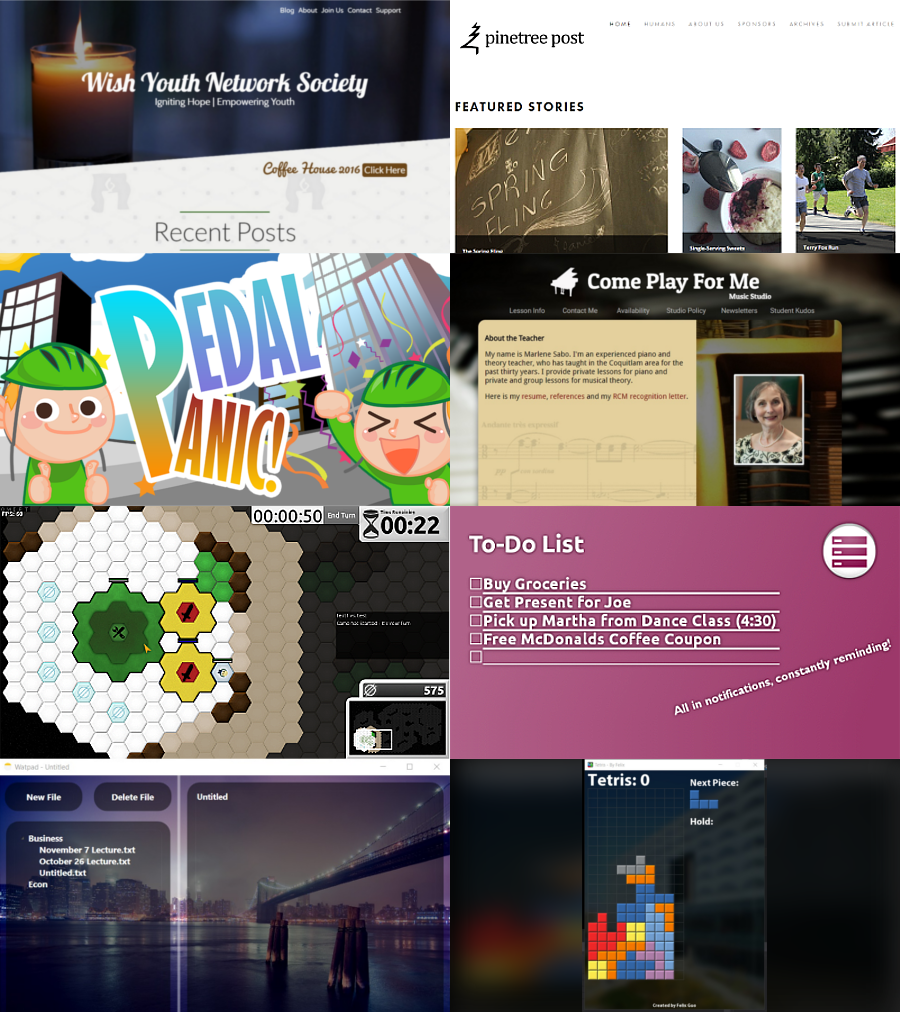
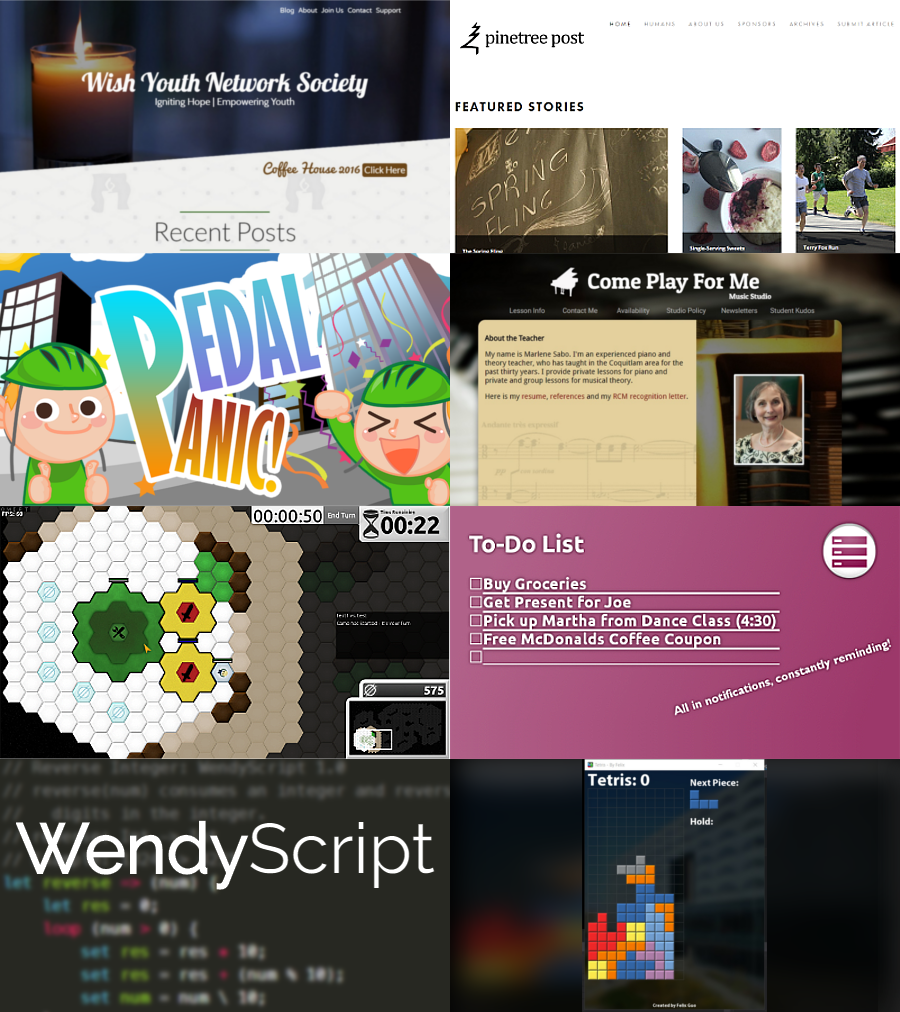
added wendy to frontpage

Changed region(s): [[0.0, 0.7352, 0.4978, 1.0]]

diff --git a/index.html b/index.html
@@ -187,15 +187,17 @@ Copyright Felix Guo 2016
 							<div class="back">
 								<div class="portfolioDescription imagesBlocks">
 									<span>
-										<h2>WatPad</h2>
+										<h2>WendyScript</h2>
 										<div class="portfolioDescriptionSub">
-											<i>Side Project | <a href="https://github.com/fg123/watpad">GitHub</a></i><br>
+											<i>Programming Language | <a href="http://felixguo.me/wendy">Documentation</a></i><br>
 										</div>
 										<div class="portfolioDescriptionContent">
-											Simple notepad app that autosaves files into a predefined directory, with rotating backgrounds and limited styling for a more minimalistic approach.
+											WendyScript is a scripting language I created. The interpreter was written in C++ and 
+											includes token scanning, lexigraphical analysis and scope structures for variable tracking.
+											Information about the syntax and download for the interpreter can be found in the documentation.
 										</div>
 										<div class="portfolioDescriptionSub">
-											Technologies Used: C#, WPF
+											Technologies Used: C++
 										</div>
 									</span>
 								</div>
